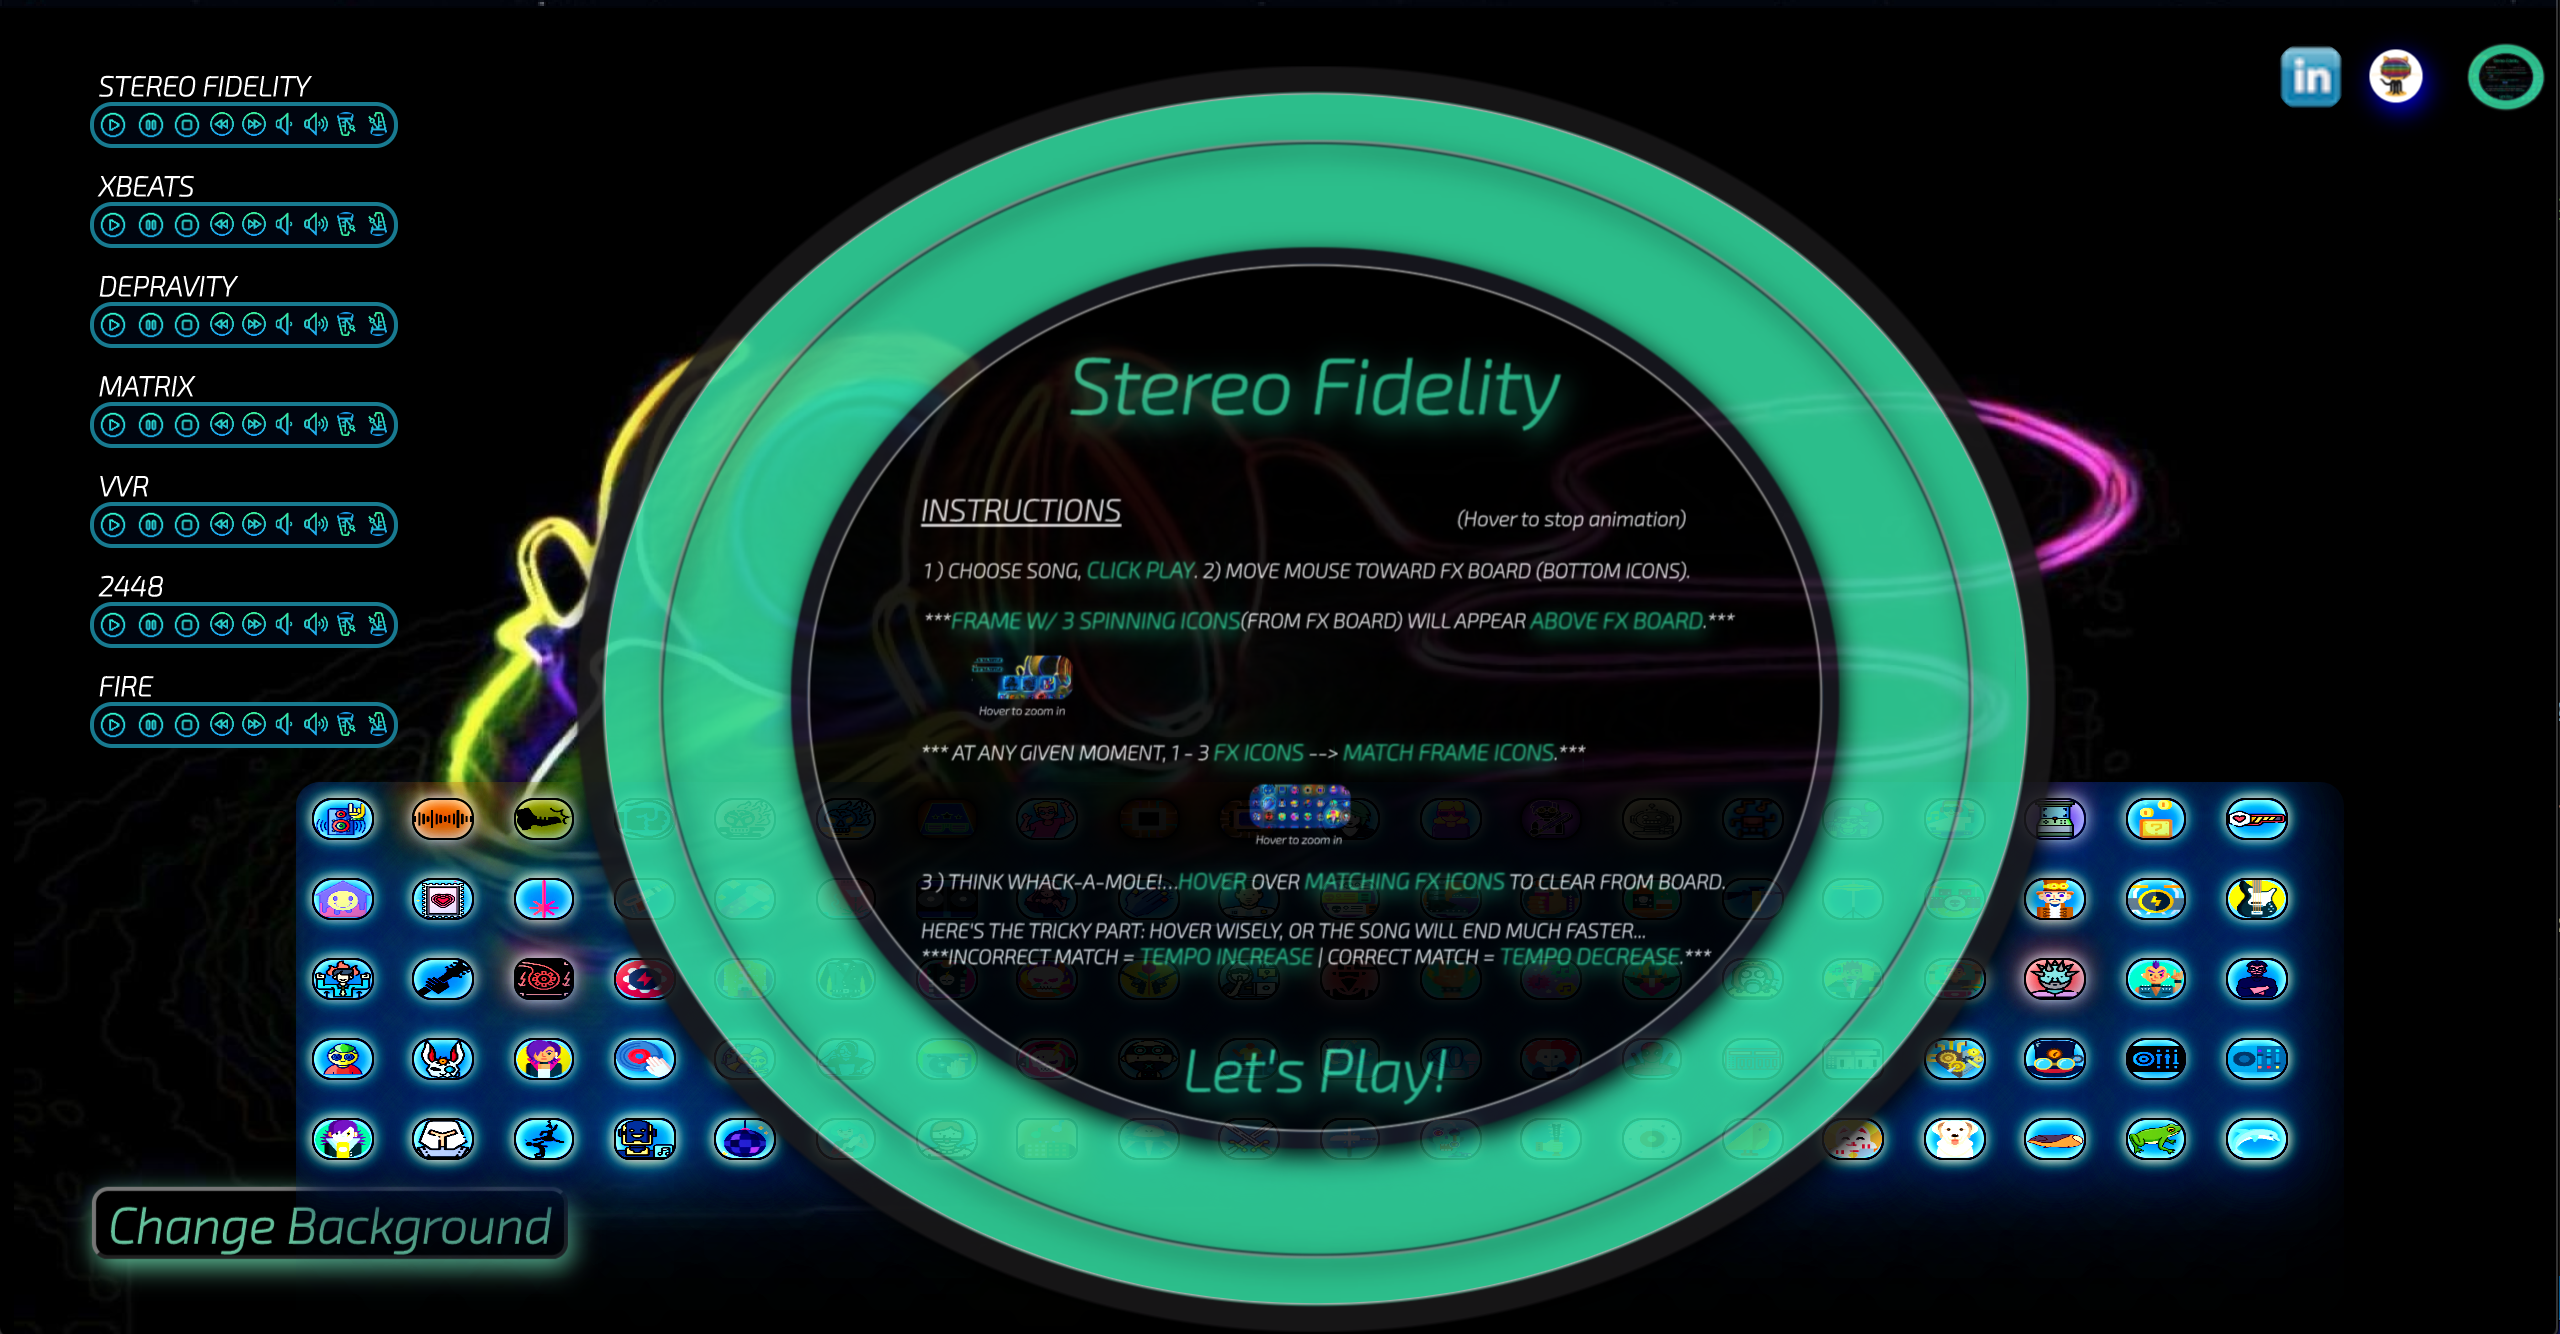
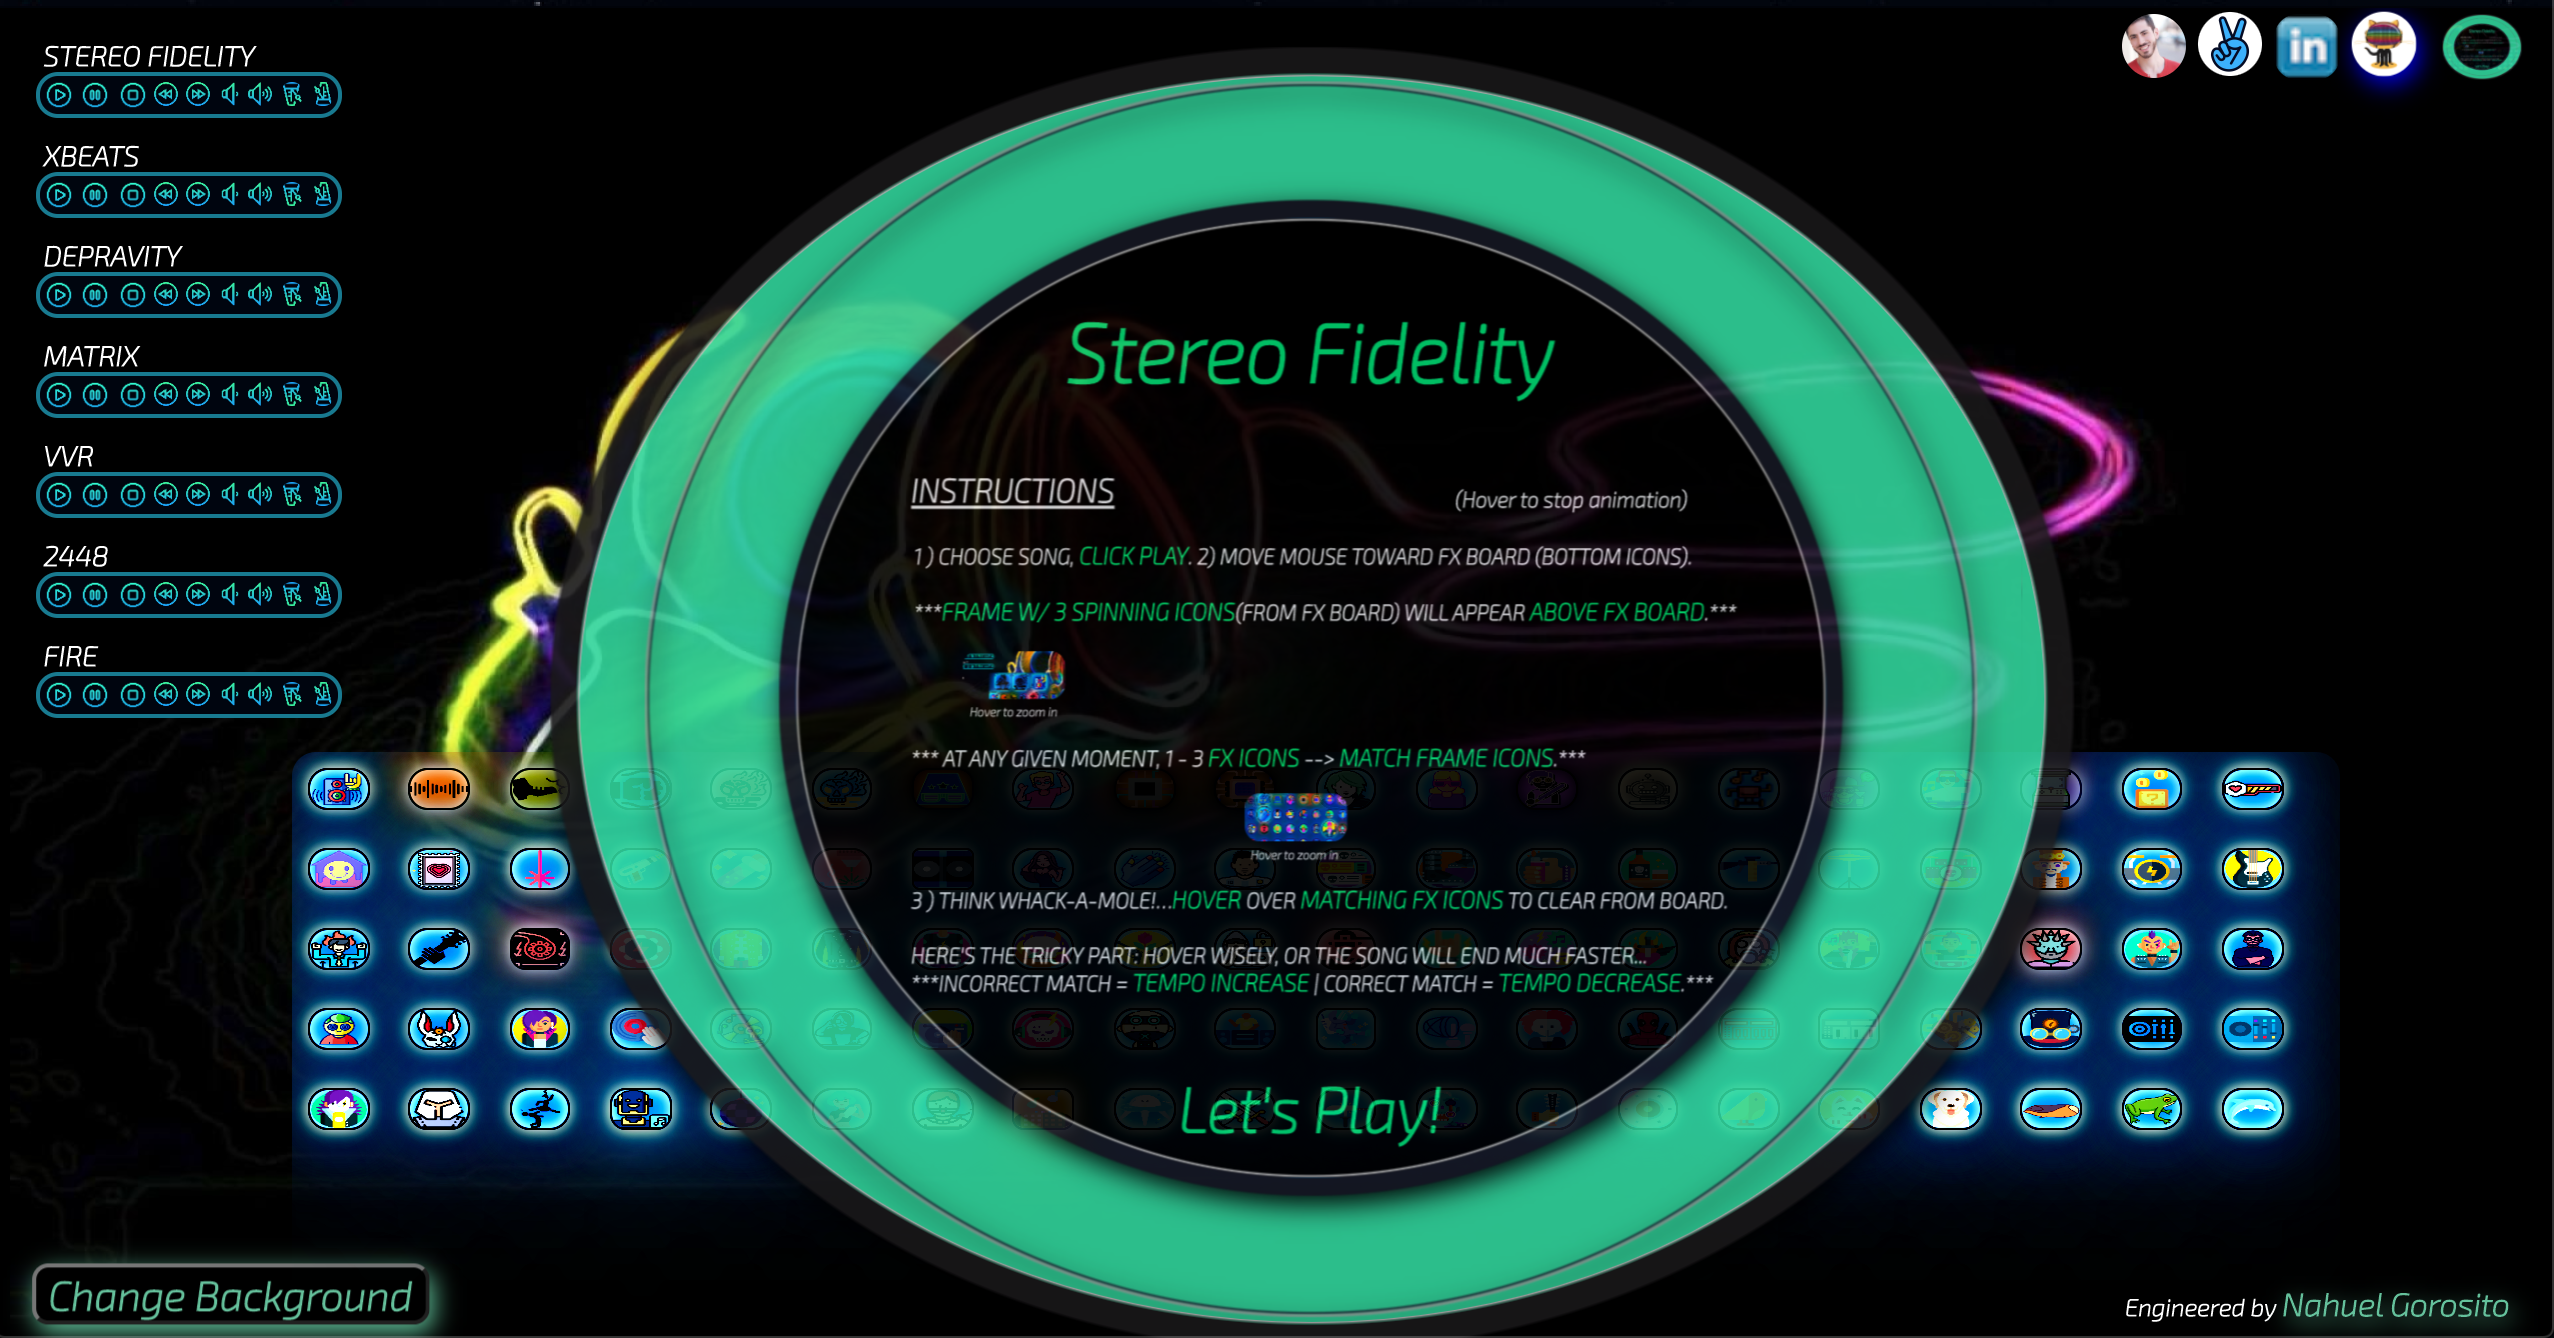
add stereo fidelity gif

Changed region(s): [[0.0, 0.0307, 0.928, 1.0], [0.8352, 0.0, 1.0, 1.0]]

diff --git a/index.html b/index.html
@@ -377,7 +377,7 @@
             <a href="img/djindex.png" data-lightbox="gallery-mf">
             <a href="img/djshow.png" data-lightbox="gallery-mf">
               <div class="work-img">
-                <img src="img/denizen.gif" alt="Denizen Confidant animated tour" class="img-fluid">
+                <img src="img/denizen.gif" alt="Denizen Confidant Animated Tour" class="img-fluid">
               </div>
               <div class="work-content">
                 <div class="row">
@@ -399,11 +399,11 @@
         </div>
         <div class="col-md-4">
           <div class="work-box">
-            <a href="img/work-2.jpg" data-lightbox="gallery-mf">
+            <a href="img/stereomain.png" data-lightbox="gallery-mf">
+            <a href="img/gameplay.png" data-lightbox="gallery-mf">
+            <a href="img/perfectmsg.png" data-lightbox="gallery-mf">
               <div class="work-img">
-                <img src="img/stereomain.png" alt="" class="img-fluid">
-                <!-- <img src="img/gameplay.png" alt="" class="img-fluid"> -->
-                <!-- <img src="img/perfectmsg.png" alt="" class="img-fluid"> -->
+                <img src="img/stereo.gif" alt="Stereo Fidelity Animated Tour" class="img-fluid">
               </div>
               <div class="work-content">
                 <div class="row">
@@ -425,11 +425,11 @@
         </div>
         <div class="col-md-4">
           <div class="work-box">
-            <a href="img/work-3.jpg" data-lightbox="gallery-mf">
+            <a href="img/vdbsplash.png" data-lightbox="gallery-mf">
+            <a href="img/vdbregister.png" data-lightbox="gallery-mf">
+            <a href="img/vdbhome.png" data-lightbox="gallery-mf">
               <div class="work-img">
-                <img src="img/vitaldb.gif" alt="VitalDB animated tour" class="img-fluid">
-                <!-- <img src="img/vdbregister.png" alt="" class="img-fluid"> -->
-                <!-- <img src="img/vdbhome.png" alt="" class="img-fluid"> -->
+                <img src="img/vitaldb.gif" alt="VitalDB Animated Tour" class="img-fluid">
               </div>
               <div class="work-content">
                 <div class="row">
